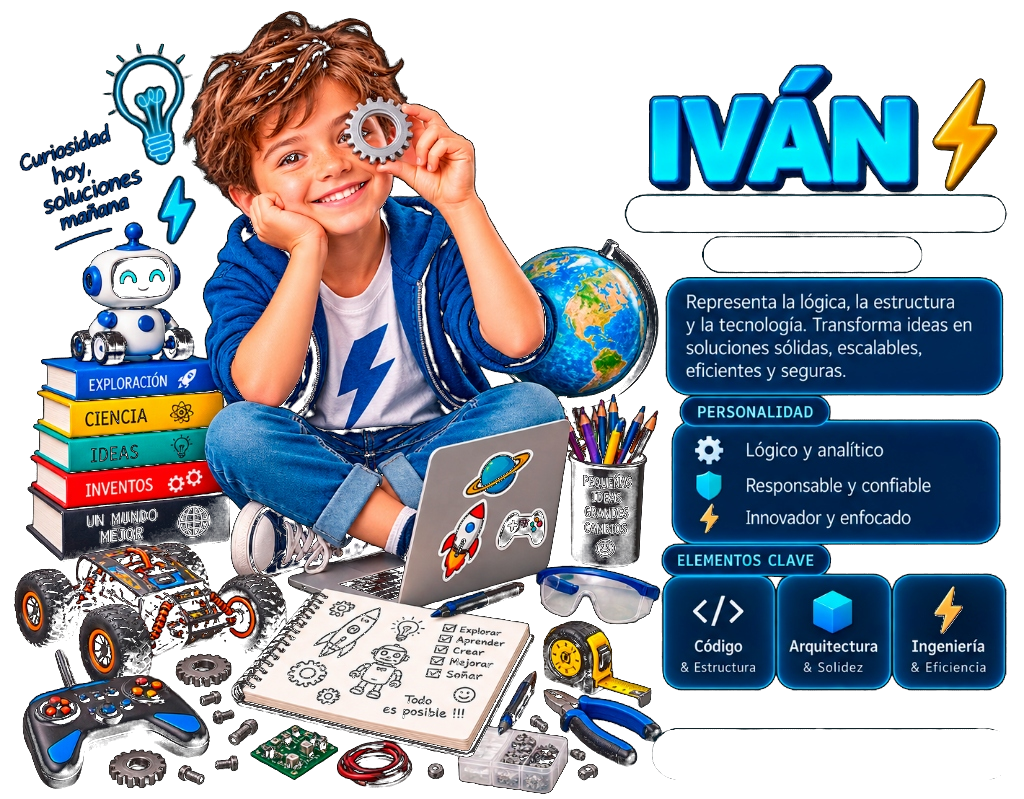
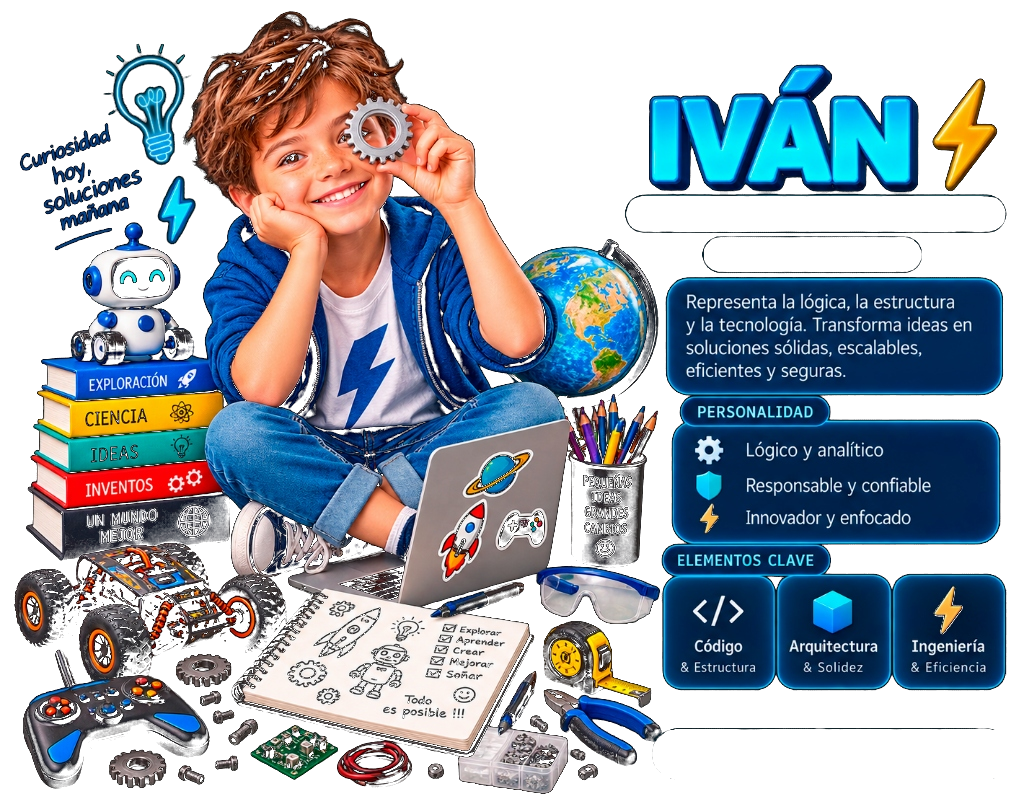
feat(ai-personas): remove all dark background layers for pure transparency with seamless background integration

diff --git a/src/components/ai-personas/AIPersonasSection.tsx b/src/components/ai-personas/AIPersonasSection.tsx
@@ -54,19 +54,17 @@ export default function AIPersonasSection() {
         <div className="relative">
           <div className="grid grid-cols-1 lg:grid-cols-2 gap-6 lg:gap-8 items-stretch">
             {/* ========================================================== */}
-            {/* CARD 1: SOFÍA (3D MASTER PIECE CON FONDO LUMINOSO) */}
+            {/* CARD 1: SOFÍA (3D MASTER PIECE 100% TRANSPARENTE) */}
             {/* ========================================================== */}
             <div 
-              className="group relative rounded-[28px] sm:rounded-[36px] transition-all duration-500 overflow-hidden select-none"
+              className="group relative rounded-[28px] sm:rounded-[36px] bg-transparent border-0 transition-all duration-500 overflow-hidden select-none"
               style={{ containerType: "inline-size" }}
             >
               {/* High-Resolution 3D Master Artwork Container */}
-              <div className="relative w-full aspect-[1024/815] overflow-hidden rounded-[26px] sm:rounded-[34px]">
-                {/* Rich Glowing Backdrop (Replaces flat black with vibrant magenta atmosphere) */}
-                <div className="absolute inset-0 bg-gradient-to-br from-[#3D0A1E]/95 via-[#220612]/95 to-[#0D0207] rounded-[26px] sm:rounded-[34px] border border-[#FF3858]/50 shadow-[0_0_50px_rgba(255,56,88,0.3)]" />
-                <div className="absolute -top-12 -left-12 w-80 h-80 bg-[#FF3858]/40 rounded-full blur-[85px] pointer-events-none animate-pulse" />
-                <div className="absolute bottom-0 right-0 w-72 h-72 bg-[#FF7A00]/30 rounded-full blur-[80px] pointer-events-none" />
-                <div className="absolute top-1/2 left-1/4 w-60 h-60 bg-[#FF007F]/25 rounded-full blur-[70px] pointer-events-none" />
+              <div className="relative w-full aspect-[1024/815] overflow-hidden rounded-[26px] sm:rounded-[34px] bg-transparent">
+                {/* Soft Ambient Glows Only (No dark background) */}
+                <div className="absolute -top-10 -left-10 w-72 h-72 bg-[#FF3858]/25 rounded-full blur-[80px] pointer-events-none" />
+                <div className="absolute bottom-0 right-0 w-64 h-64 bg-[#FF7A00]/20 rounded-full blur-[70px] pointer-events-none" />
 
                 <Image
                   src="/images/sofia_master_card_transparent.png"
@@ -170,19 +168,17 @@ export default function AIPersonasSection() {
             </div>
 
             {/* ========================================================== */}
-            {/* CARD 2: IVÁN (3D MASTER PIECE CON FONDO LUMINOSO) */}
+            {/* CARD 2: IVÁN (3D MASTER PIECE 100% TRANSPARENTE) */}
             {/* ========================================================== */}
             <div 
-              className="group relative rounded-[28px] sm:rounded-[36px] transition-all duration-500 overflow-hidden select-none"
+              className="group relative rounded-[28px] sm:rounded-[36px] bg-transparent border-0 transition-all duration-500 overflow-hidden select-none"
               style={{ containerType: "inline-size" }}
             >
               {/* High-Resolution 3D Master Artwork Container */}
-              <div className="relative w-full aspect-[1024/815] overflow-hidden rounded-[26px] sm:rounded-[34px]">
-                {/* Rich Glowing Backdrop (Replaces flat black with vibrant cyber cyan atmosphere) */}
-                <div className="absolute inset-0 bg-gradient-to-br from-[#06263D]/95 via-[#031424]/95 to-[#020A14] rounded-[26px] sm:rounded-[34px] border border-[#00D1FF]/50 shadow-[0_0_50px_rgba(0,209,255,0.3)]" />
-                <div className="absolute -top-12 -right-12 w-80 h-80 bg-[#00D1FF]/40 rounded-full blur-[85px] pointer-events-none animate-pulse" />
-                <div className="absolute bottom-0 left-0 w-72 h-72 bg-[#3A86FF]/30 rounded-full blur-[80px] pointer-events-none" />
-                <div className="absolute top-1/2 right-1/4 w-60 h-60 bg-[#00F0FF]/25 rounded-full blur-[70px] pointer-events-none" />
+              <div className="relative w-full aspect-[1024/815] overflow-hidden rounded-[26px] sm:rounded-[34px] bg-transparent">
+                {/* Soft Ambient Glows Only (No dark background) */}
+                <div className="absolute -top-10 -right-10 w-72 h-72 bg-[#00D1FF]/25 rounded-full blur-[80px] pointer-events-none" />
+                <div className="absolute bottom-0 left-0 w-64 h-64 bg-[#3A86FF]/20 rounded-full blur-[70px] pointer-events-none" />
 
                 <Image
                   src="/images/ivan_master_card_transparent.png"
